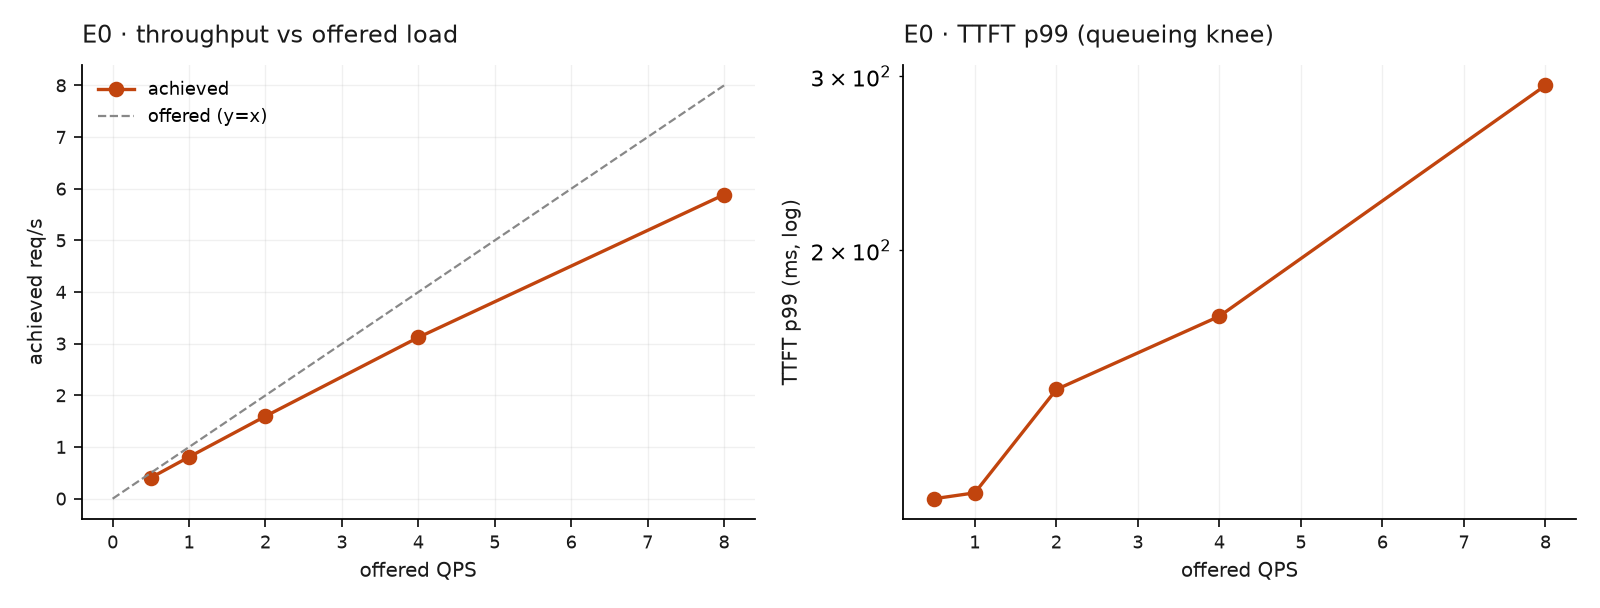
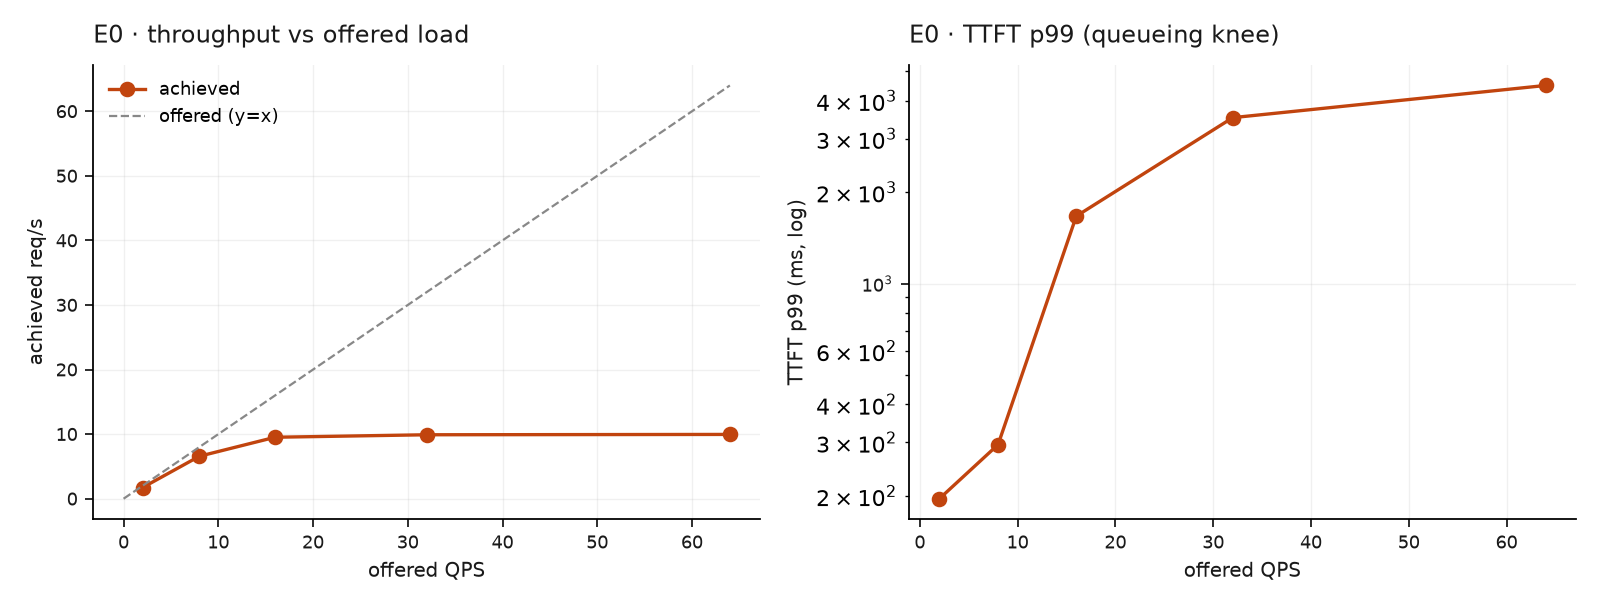
Correct E3 conclusions: n=100 does not support the frontier shape
Added tools/accuracy_ci.py (bootstrapped paired differences) and ran it against
the E3 sweep. It does not support what the first draft of docs/results.md
claimed.

Only the bottom cliff is real. 288 vision tokens loses 0.12-0.16 ANLS against
every larger budget, CIs clear of zero. Every pairwise comparison among the four
larger budgets is indistinguishable: 451,584 vs 1,605,632 is -0.036
[-0.083, +0.006], and the claimed "strictly worse past peak" -0.007 sits inside
[-0.013, +0.033].

So the honest statement is that above ~600 vision tokens accuracy is flat within
measurement error while TTFT grows 6x. The practical advice gets stronger -- run
at 451,584 and save 67% of TTFT at no measurable accuracy cost -- while the
scientific claim about the frontier's shape gets weaker, and is now marked
unmeasured rather than reported as a finding. Resolving the top needs n~500-1000.

The paired test matters here: the same documents are scored at every budget, and
pairing detects differences that overlapping per-run CIs would hide.

diff --git a/tools/accuracy_ci.py b/tools/accuracy_ci.py
@@ -1,0 +1,79 @@
+#!/usr/bin/env python3
+"""Bootstrap confidence intervals for per-run accuracy, and test pairwise differences.
+
+A single accuracy number from n=100 invites claims the sample size cannot support.
+This re-scores each run per sample, bootstraps the mean, and reports whether two
+budgets actually differ -- paired on sample id, since the same documents are used
+at every budget and a paired test is far more sensitive than comparing two CIs.
+"""
+from __future__ import annotations
+
+import argparse
+import json
+import random
+from pathlib import Path
+import sys
+
+sys.path.insert(0, str(Path(__file__).resolve().parents[1]))
+from bench.scorers import SCORERS  # noqa: E402
+
+
+def per_sample(run_dir: Path, gold: dict, scorer) -> dict[str, float]:
+    out = {}
+    for line in (run_dir / "outputs.jsonl").read_text().splitlines():
+        if not line.strip():
+            continue
+        r = json.loads(line)
+        g = gold.get(str(r["sample_id"]))
+        if g and g.get("answers"):
+            out[str(r["sample_id"])] = scorer(r["text"], g["answers"])
+    return out
+
+
+def boot_ci(xs: list[float], n: int = 10000, seed: int = 0) -> tuple[float, float]:
+    rng = random.Random(seed)
+    k = len(xs)
+    means = sorted(sum(rng.choices(xs, k=k)) / k for _ in range(n))
+    return means[int(0.025 * n)], means[int(0.975 * n)]
+
+
+def main() -> None:
+    ap = argparse.ArgumentParser()
+    ap.add_argument("--runs", nargs="+", required=True)
+    ap.add_argument("--manifest", required=True)
+    ap.add_argument("--scorer", default="anls")
+    args = ap.parse_args()
+
+    gold = {}
+    for line in Path(args.manifest).read_text().splitlines():
+        if line.strip():
+            r = json.loads(line)
+            gold[str(r["id"])] = r
+    scorer = SCORERS[args.scorer]
+
+    series = {}
+    for d in args.runs:
+        p = Path(d)
+        series[p.name.split("-")[-1]] = per_sample(p, gold, scorer)
+
+    print(f"{'budget':<12} {'n':>4} {'mean':>7}   95% CI")
+    for name, s in series.items():
+        xs = list(s.values())
+        lo, hi = boot_ci(xs)
+        print(f"{name:<12} {len(xs):>4} {sum(xs)/len(xs):>7.3f}   [{lo:.3f}, {hi:.3f}]  ±{(hi-lo)/2:.3f}")
+
+    names = list(series)
+    print(f"\npaired differences (same documents at both budgets):")
+    print(f"{'A':<12} {'B':<12} {'Δ(A-B)':>8}   95% CI          verdict")
+    for i, a in enumerate(names):
+        for b in names[i + 1:]:
+            common = sorted(set(series[a]) & set(series[b]))
+            diffs = [series[a][k] - series[b][k] for k in common]
+            lo, hi = boot_ci(diffs)
+            mean = sum(diffs) / len(diffs)
+            sig = "DIFFERENT" if (lo > 0 or hi < 0) else "indistinguishable"
+            print(f"{a:<12} {b:<12} {mean:>+8.3f}   [{lo:+.3f}, {hi:+.3f}]  {sig}")
+
+
+if __name__ == "__main__":
+    main()

diff --git a/docs/results.md b/docs/results.md
@@ -38,33 +38,46 @@ consequences:
   resolution it is 2.6% of TTFT — so at the resolutions that matter, TTFT *is*
   vision tokens, and almost nothing else.
 
-## E3 · The accuracy–latency frontier (DocVQA, 200 samples, ANLS)
+## E3 · The accuracy–latency frontier (DocVQA, 200-sample subset, n=100 scored, ANLS)
 
-| max_pixels | prompt tokens | TTFT p50 | ANLS |
-|---|---|---|---|
-| 200,704 | 288 | 130 ms | 0.784 |
-| 451,584 | 598 | 232 ms | 0.903 |
-| 802,816 | 1,034 | 370 ms | 0.915 |
-| **1,605,632** | **1,994** | **706 ms** | **0.939** |
-| 3,211,264 | 3,830 | 1,421 ms | 0.932 |
+| max_pixels | prompt tokens | TTFT p50 | ANLS | 95% CI |
+|---|---|---|---|---|
+| 200,704 | 288 | 130 ms | 0.784 | [0.713, 0.851] |
+| 451,584 | 598 | **232 ms** | 0.903 | [0.848, 0.951] |
+| 802,816 | 1,034 | 370 ms | 0.915 | [0.863, 0.960] |
+| 1,605,632 | 1,994 | 706 ms | 0.939 | [0.895, 0.976] |
+| 3,211,264 | 3,830 | 1,421 ms | 0.932 | [0.884, 0.973] |
 
-Peak ANLS 0.939 matches Qwen2.5-VL-7B's published DocVQA score, which is the
-calibration check — the harness agrees with a known value, not just with itself.
+The top value, 0.939, is consistent with Qwen2.5-VL-7B's published DocVQA score.
+That is the calibration check: the harness agrees with a known external value, not
+only with itself.
 
-**Past the peak, more pixels are strictly worse.** Doubling the budget costs
-**+101% TTFT for −0.007 ANLS**. The generous default is not a safe choice; it is a
-slower and slightly less accurate one.
+### What n=100 does and does not support
 
-**The trade is steep and cheap.**
+Bootstrapped paired differences (same documents at both budgets, 10k resamples):
 
-| give up | budget | TTFT | vs peak |
-|---|---|---|---|
-| 2.4 pts | 802,816 | 370 ms | **48% faster** |
-| 3.6 pts | 451,584 | 232 ms | **67% faster** |
+| A | B | Δ | 95% CI | |
+|---|---|---|---|---|
+| 200,704 | 451,584 | −0.120 | [−0.192, −0.051] | **different** |
+| 200,704 | 1,605,632 | −0.156 | [−0.229, −0.088] | **different** |
+| 451,584 | 1,605,632 | −0.036 | [−0.083, +0.006] | indistinguishable |
+| 802,816 | 1,605,632 | −0.024 | [−0.059, +0.005] | indistinguishable |
+| 1,605,632 | 3,211,264 | +0.007 | [−0.013, +0.033] | indistinguishable |
 
-**The cliff is at the bottom.** 0.903 → 0.784 between 598 and 288 tokens: a 12-point
-collapse where the text stops being resolvable. For documents the usable floor is
-around 600 vision tokens.
+**Above ~600 vision tokens, accuracy is flat within measurement error while TTFT
+grows 6×** — 232 ms to 1,421 ms across budgets whose accuracy cannot be told apart.
+The practical consequence is strong and the statistical claim is weak, and they point
+the same way: run at 451,584 and save 67% of TTFT for no *measurable* accuracy cost.
+
+**The cliff at the bottom is real.** 288 tokens loses 0.12–0.16 ANLS against every
+larger budget, with confidence intervals well clear of zero. For documents the usable
+floor is somewhere between 288 and 598 vision tokens — this sweep does not resolve
+where.
+
+> An earlier draft of this page claimed a peak at 1,605,632 and that more pixels past
+> it were "strictly worse" (−0.007 ANLS). Neither survives the confidence interval:
+> the four largest budgets are statistically identical, and −0.007 sits inside
+> [−0.013, +0.033]. Resolving the top of the frontier needs n≈500–1000, not 100.
 
 ## E0 · Throughput keeps looking healthy after goodput dies
 
@@ -123,8 +136,11 @@ improvement would measure the same optimisation twice and credit it once.
   much larger prefills and will saturate earlier.
 - **No prefix-caching arm yet.** The 3× TTFT gap above is the confound measured,
   not the optimisation measured under a realistic reuse workload.
-- **Single run per point.** No repeats, so no error bars. Treat differences under
-  ~5% as noise.
+- **Single run per point.** No repeats, so no error bars on any *latency* number.
+  Treat latency differences under ~5% as noise.
+- **Accuracy resolves only large effects.** n=100 gives roughly ±0.05 ANLS at 95%,
+  which is wider than every difference above 600 vision tokens. The shape of the top
+  of the frontier is unmeasured, not flat-by-finding.
 - **E2's law under-predicts real documents by 6–18%.** Synthetic images of equal
   token count are cheaper than real ones; the cause is unexplained.
 - **No FP8, ever, on sm_86.** Out of scope for this rig.

diff --git a/README.md b/README.md
@@ -16,8 +16,8 @@ Status: **first results measured.** One model, one arm, one dataset — see
 |---|---|
 | Decode is at the physical limit | **149.3 tok/s = 92.7%** of the 936 GB/s roofline — nothing left to win at batch 1 |
 | A vision token costs | **0.32 ms** of TTFT, over a 17.5 ms floor (R² = 0.9994) |
-| Past peak accuracy, pixels hurt | doubling the token budget: **+101% TTFT, −0.007 ANLS** |
-| Cheap accuracy trade | give up 3.6 ANLS points → **67% faster TTFT** |
+| Above ~600 vision tokens | accuracy flat within error while TTFT grows **6×** |
+| Cheap accuracy trade | **67% faster TTFT** for no *measurable* accuracy cost (n=100) |
 | Throughput lies after saturation | raw ceiling **9.96 req/s**, usable **6.58 req/s** — goodput hits **zero** while req/s still reads 9.9 |
 | The 3090 is power-limited | 349.2 W of 350 W at 66 °C — capped, not thermally throttled |
 
